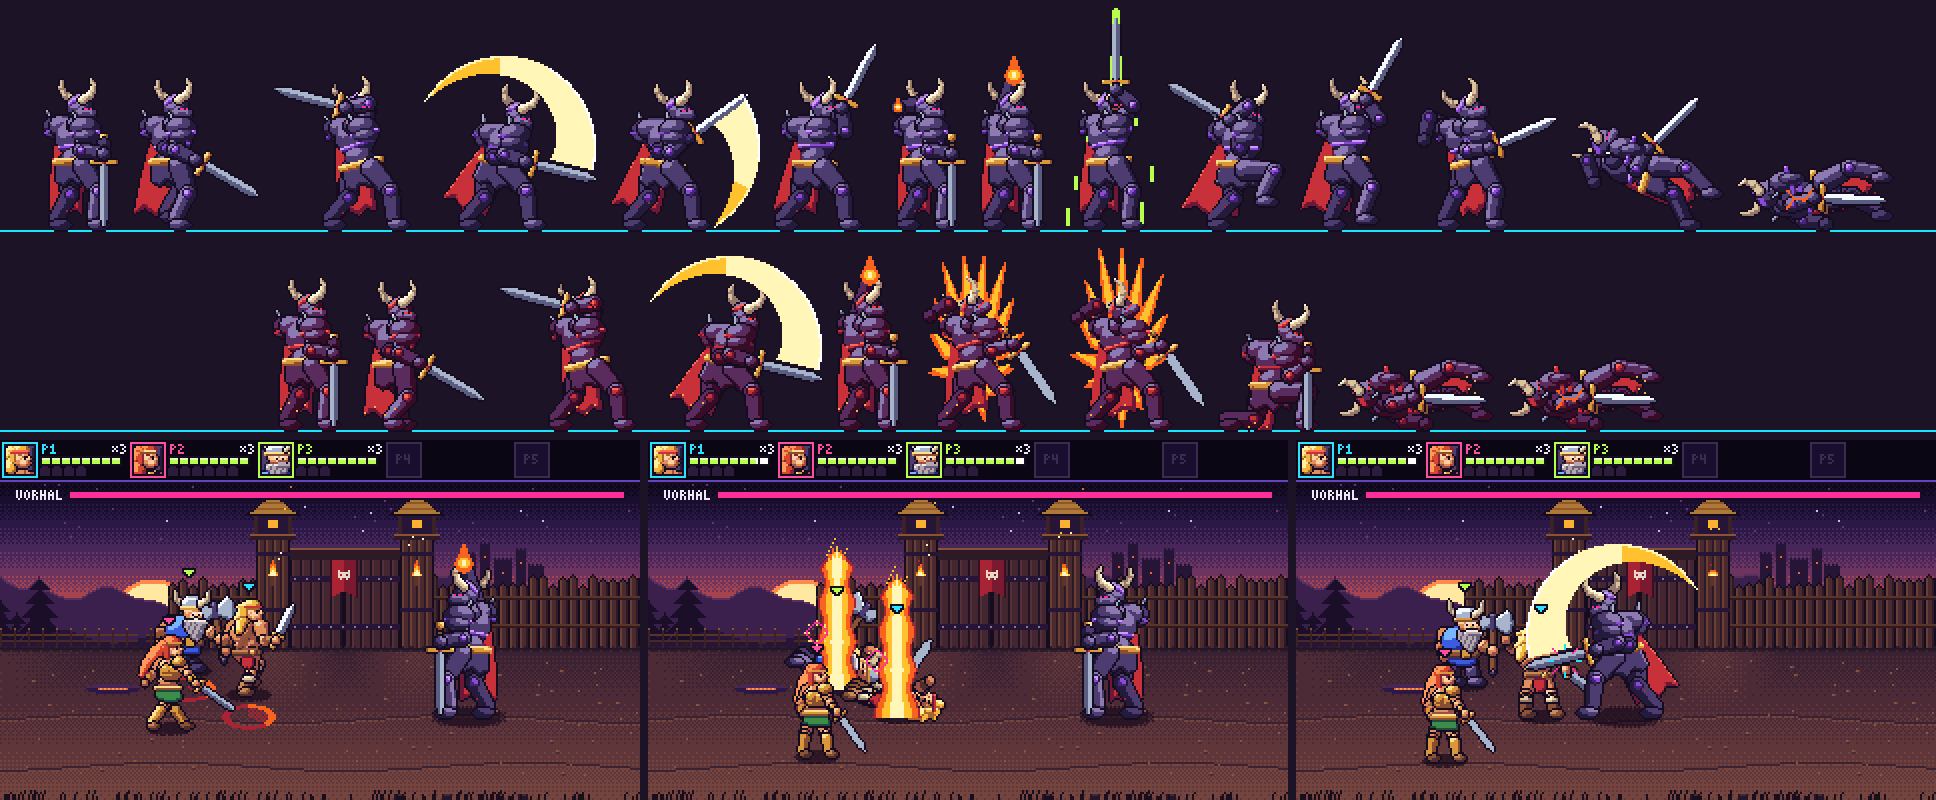
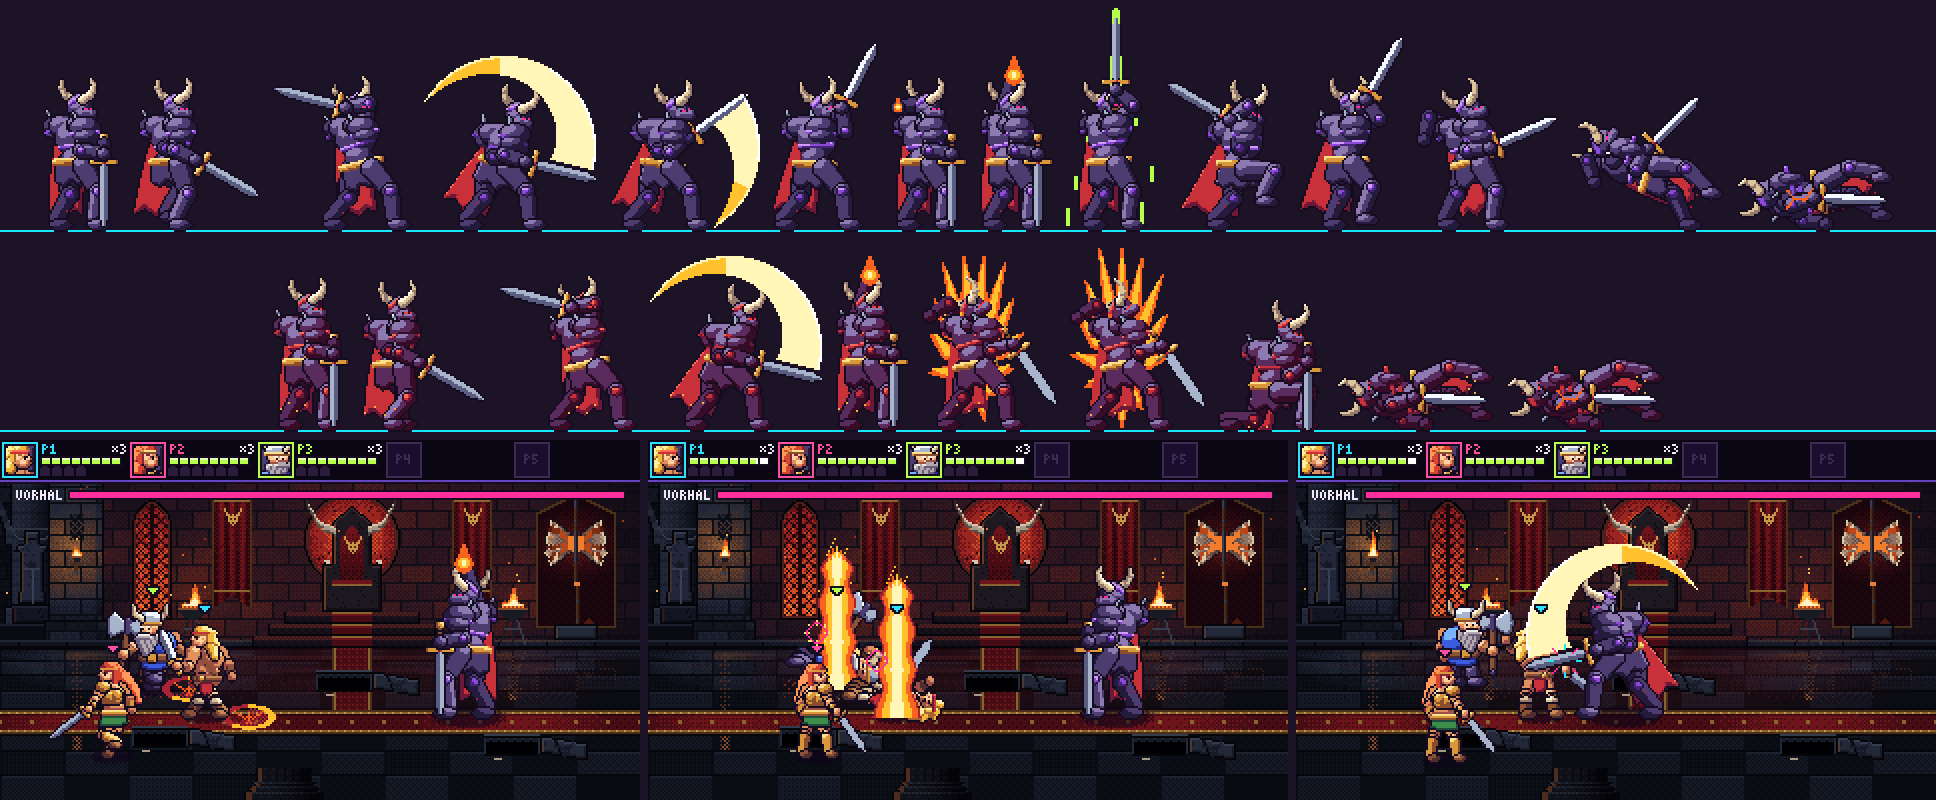
Fuse Axe Vorhal fx review: a pillar engulfs a jumping hero on its row, the sigil ring reaches its last stage, scenes re-rendered in the keep
- scene.ts: a pillar of fire sorts after every figure on its sigil's row whatever its height (a hero in the air above it is
  burned, as the engine burns it, so is drawn inside the flames, not in front of them); regression in scene.test.ts.
- vorhal-fx.ts: the ring's stages are spread over the steps before the flash, so all eight show (the last was shadowed by
  the flash and never drawn); regression in vorhal-art.test.ts.
- README: wording for both, and docs/images/vorhal.png re-rendered with the real effects on the keep's floor after the
  merge of #501.

Changed region(s): [[0.0, 0.5938, 1.0, 1.0]]

diff --git a/games/fuse-axe/src/render/vorhal-fx.ts b/games/fuse-axe/src/render/vorhal-fx.ts
@@ -4,8 +4,8 @@ import type { Sprite } from "./pixel/sprite.js";
 
 /**
  * Vorhal's fire spell, painted once into sprites the scene bakes and blits. A sigil is a horned rune in a ring on the
- * floor, under the figures: the ring traces itself round in ember as the eruption nears, the rune lighting inside it
- * halfway, and for its last `PRIMED` steps the whole of it flashes white-hot (`sigilSprite`). Then its pillar of fire
+ * floor, under the figures: the ring traces itself round in ember, the rune lighting inside it halfway, until for its
+ * last `PRIMED` steps the whole of it flashes white-hot as the eruption nears (`sigilSprite`). Then its pillar of fire
  * stands among the figures by its depth: it shoots up from the floor over its first steps, burns its full height in
  * bands from a dark ember rim to a white-hot core, licking with the 60 Hz frame, and sinks as it dies (`pillarSprite`).
  * Both are pure functions of the sigil's age and the frame; an age outside theirs (or not a number) has none.
@@ -14,7 +14,7 @@ export const PILLAR_H = 72;
 /** The steps before the eruption the sigil flashes, the flash's half-period in frames, the ring's stages. */
 export const PRIMED = 12;
 const FLASH = 4;
-const STAGES = 8;
+export const STAGES = 8;
 /** The ring's half-axes: wider than the pillar, foreshortened on the floor to its depth. */
 const RX = SIGIL.half + 4;
 const RY = SIGIL.lane;
@@ -62,12 +62,15 @@ const FILLING = Array.from(
 );
 const FLASHING = [sigil(1, "F", "~", "F"), sigil(1, "f", "=", "~")] as const;
 
-/** The sigil `age` steps after he marked it, at 60 Hz `frame`: none before it is marked or once its pillar erupts. */
+/**
+ * The sigil `age` steps after he marked it, at 60 Hz `frame`: its ring tracing round through every stage before its
+ * last `PRIMED` steps, then flashing; none before it is marked or once its pillar erupts.
+ */
 export function sigilSprite(age: number, frame: number): Sprite | undefined {
   if (!(age >= 0 && age < SIGIL.delay)) return undefined;
   if (age >= SIGIL.delay - PRIMED)
     return FLASHING[Math.floor(Math.abs(frame) / FLASH) % 2 || 0];
-  return FILLING[Math.floor((age * STAGES) / SIGIL.delay)];
+  return FILLING[Math.floor((age * STAGES) / (SIGIL.delay - PRIMED))];
 }
 
 /** A shade darker: white-hot to gold, gold to orange, orange to the dark ember rim. */

diff --git a/games/fuse-axe/tests/scene.test.ts b/games/fuse-axe/tests/scene.test.ts
@@ -1422,10 +1422,15 @@ test("Vorhal draws as his own figure in every anim, his sigils glow under the fi
       draw(world({ enemies: [vorhal({ enraged, anim: "cast", animStep: 30 })] })).sprites[0]!.image.fills, // prettier-ignore
       fillsOf(VORHAL.sprite("cast"), { swap: enraged ? VORHAL_RAGE : undefined, flash: false, flip: false }), // prettier-ignore
     );
-  // Brakka at `y` by a sigil at (160, 140) `age` steps old: where its sigil's and its pillar's blits fall among the
-  // blits, and his.
-  const scene = (age: number, y = 140, sigil = { x: 160, y: 140, age }) => {
-    const { blits } = draw(world({ heroes: [hero(1, 0, 160, y)], sigils: [sigil] })).pen; // prettier-ignore
+  // Brakka at `y`, `z` up, by a sigil at (160, 140) `age` steps old: where its sigil's and its pillar's blits fall
+  // among the blits, and his.
+  const scene = (
+    age: number,
+    y = 140,
+    sigil = { x: 160, y: 140, age },
+    z = 0,
+  ) => {
+    const { blits } = draw(world({ heroes: [hero(1, 0, 160, y, { z })], sigils: [sigil] })).pen; // prettier-ignore
     const of = (sprite: Sprite | undefined) =>
       sprite ? blits.findIndex((b) => isDeepStrictEqual(b.image.fills, fillsOf(sprite))) : -1; // prettier-ignore
     const idle = BRAKKA.sprite("idle0");
@@ -1457,6 +1462,11 @@ test("Vorhal draws as his own figure in every anim, his sigils glow under the fi
     assert.ok(pillar >= 0 && sigil === -1, `${y}`);
     assert.equal(pillar > brakka, after, `${y}`);
     assert.deepEqual([blits[pillar]!.dx, blits[pillar]!.dy], [160 - p.ax, 140 - p.ay]); // prettier-ignore
+  }
+  // It burns whatever is over its row too: Brakka in the air above it is engulfed, not drawn in front of it.
+  for (const z of [1, 20, 36]) {
+    const { pillar, brakka } = scene(burning, 140, { x: 160, y: 140, age: burning }, z); // prettier-ignore
+    assert.ok(pillar > brakka && brakka >= 0, `${z}`);
   }
   // Burnt out, nothing is left; an odd age or place draws nothing amiss.
   const bare = draw(world({ heroes: [hero(1, 0, 160, 140)] })).pen.blits.length;

diff --git a/games/fuse-axe/src/render/scene.ts b/games/fuse-axe/src/render/scene.ts
@@ -328,9 +328,9 @@ interface Standing {
   readonly steam?: { readonly enemy: EnemyView; readonly crown: Point };
   /** A beast's flame if it is a drake breathing one, drawn with it likewise, from the jaws of the frame it shows. */
   readonly flame?: { readonly mount: MountView; readonly frame: string };
+  /** A pillar of fire: drawn after every figure on its row, a jumping one too, for it burns all that is over it. */
+  readonly pillar?: boolean;
 }
-/** A pillar of fire's id among the figures: after every figure's, so one on its very row draws inside it. */
-const PILLAR_ID = 2 ** 30;
 
 /**
  * The backdrop a stage draws on, and where its camera stands: the stage's own art at the camera, or for a stage with
@@ -503,16 +503,22 @@ export function createScene<Image>(make: MakeSurface<Image>): Scene<Image> {
           shade: Math.round((shadowRadius(mount.z) * 4) / 3),
         });
       }
-      // A pillar of fire stands among them by its sigil's depth, engulfing a figure on that very row.
-      view.sigils.forEach(({ x, y, age }, i) => {
+      // A pillar of fire stands among them by its sigil's depth, engulfing every figure on that very row.
+      view.sigils.forEach(({ x, y, age }, id) => {
         const sprite = pillarSprite(age, frame);
         if (sprite)
           standing.push({
-            ...{ id: PILLAR_ID + i, y: Math.floor(y), z: 0, shade: 0 },
+            ...{ id, y: Math.floor(y), z: 0, shade: 0, pillar: true },
             ...{ sx: Math.floor(x - camX), sprite, options: {}, lit: true },
           });
       });
-      standing.sort((a, b) => a.y - b.y || a.z - b.z || a.id - b.id);
+      standing.sort(
+        (a, b) =>
+          a.y - b.y ||
+          Number(a.pillar === true) - Number(b.pillar === true) ||
+          a.z - b.z ||
+          a.id - b.id,
+      );
       for (const { y, z, sx, shade } of standing) {
         if (shade === 0) continue;
         const s = shadow(shade ?? shadowRadius(z));

diff --git a/games/fuse-axe/tests/vorhal-art.test.ts b/games/fuse-axe/tests/vorhal-art.test.ts
@@ -41,6 +41,7 @@ import {
 import {
   PILLAR_H,
   PRIMED,
+  STAGES,
   pillarSprite,
   sigilSprite,
 } from "../src/render/vorhal-fx.js";
@@ -366,6 +367,25 @@ test("a sigil glows from the step he marks it, flashes before it erupts, and its
   );
   assert.ok(
     heights.at(-1)! < heights.at(-4)! && heights.at(-4)! < heights[10]!,
+  );
+});
+
+test("a sigil's ring traces round through every stage before it flashes, each further round than the last", () => {
+  const tracing = Array.from({ length: SIGIL.delay - PRIMED }, (_, age) =>
+    sigilSprite(age, 0)!,
+  );
+  assert.equal(new Set(tracing).size, STAGES);
+  // The ring's lit pixels (not its unlit rim or the floor's glow) only grow, and the stages come in order.
+  const lit = (s: Sprite) => s.rows.join("").replace(/[.=]/g, "").length;
+  const counts = [...new Set(tracing)].map(lit);
+  assert.deepEqual(
+    counts,
+    [...counts].sort((a, b) => a - b),
+  );
+  assert.equal(new Set(counts).size, STAGES);
+  assert.deepEqual(
+    tracing,
+    [...tracing].sort((a, b) => lit(a) - lit(b)),
   );
 });
 

diff --git a/games/fuse-axe/README.md b/games/fuse-axe/README.md
@@ -252,7 +252,7 @@ and trims burn red, his plate's shadows go crimson and the embers on his cape's 
 `VORHAL_STEPS`; `tests/vorhal-art.test.ts` plays the real engine against the cuts, the cast, the summons, the leap and
 the roar.
 
-![Vorhal's frames, calm and enraged, and three frames of the scene from a real engine throne room: casting, the sigils under the heroes; their pillars of fire erupting; his first cut landing on Brakka](docs/images/vorhal.png)
+![Vorhal's frames, calm and enraged, and three frames of the scene from a real engine throne room: casting, a sigil glowing on the floor beside the heroes; the pillars of fire erupting from their sigils; his first cut landing on Brakka](docs/images/vorhal.png)
 
 A hero riding sits astride too, in four frames of its own (`ride`, `ridewindup`, `rideattack`, `ridehop`): hips on
 the seat, the far leg out of sight (`astride` on the pose skips it), the near boot in the stirrup and the weapon held
@@ -284,9 +284,10 @@ and over them rock shards burst up at the front and crumble behind it (the last 
 hammer rises), dust rolling and pebbles flying; an enraged twin steams, drawn with it by depth so a hero in front of
 it hides the puffs ([screenshot](docs/images/ogre-twins.png)). The crack, shards and dust are flat rectangles drawn
 each frame (a few hundred for the 24 steps of a slam), not baked. Vorhal's fire spell is baked (`vorhal-fx.ts`): a
-sigil is a horned rune in a ring on the floor under the figures, its ring tracing itself round over `SIGIL.delay` and
-flashing white-hot for its last `PRIMED` steps; then its pillar of fire stands among the figures by the sigil's depth
-(a hero on its very row inside it) for exactly `SIGIL.burn` steps, shooting up, licking with the frame and sinking.
+sigil is a horned rune in a ring on the floor under the figures, its ring tracing itself round and then flashing
+white-hot for its last `PRIMED` of the `SIGIL.delay` steps; then its pillar of fire stands among the figures by the
+sigil's depth (a hero on its very row inside it, in the air too) for exactly `SIGIL.burn` steps, shooting up, licking
+with the frame and sinking.
 Nothing is drawn off screen (`pen.ts` clips every call), and every sprite, shadow and sign is baked once.
 
 Everything the renderer pre-paints goes through one injected surface factory, `MakeSurface` in
